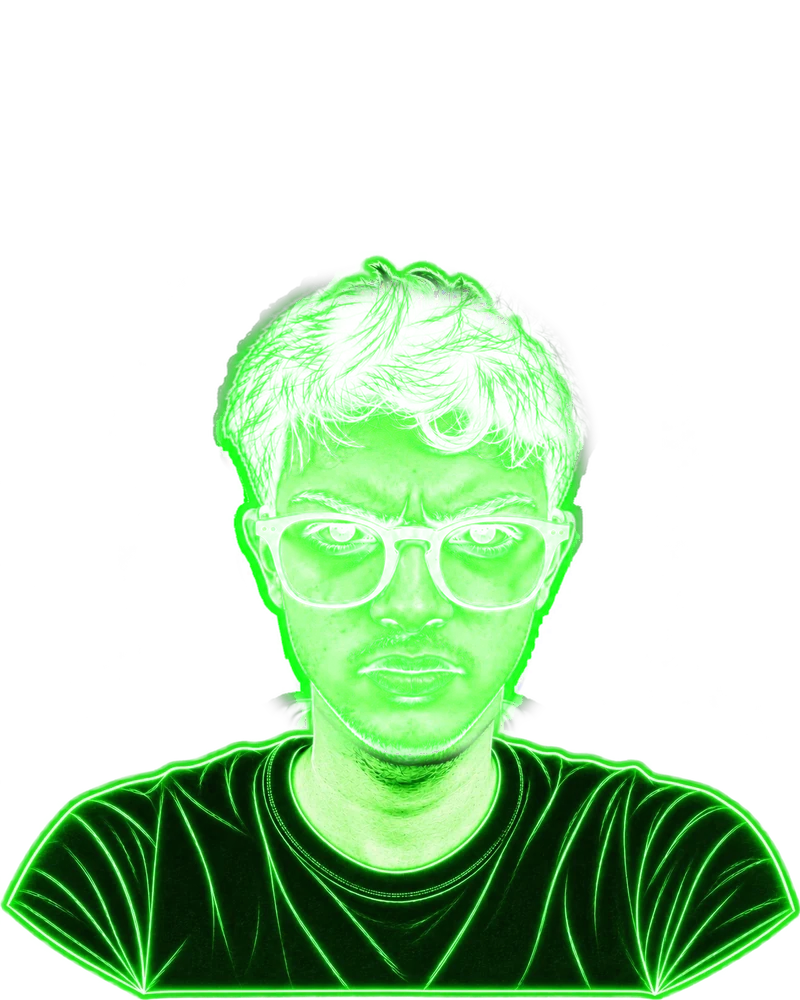
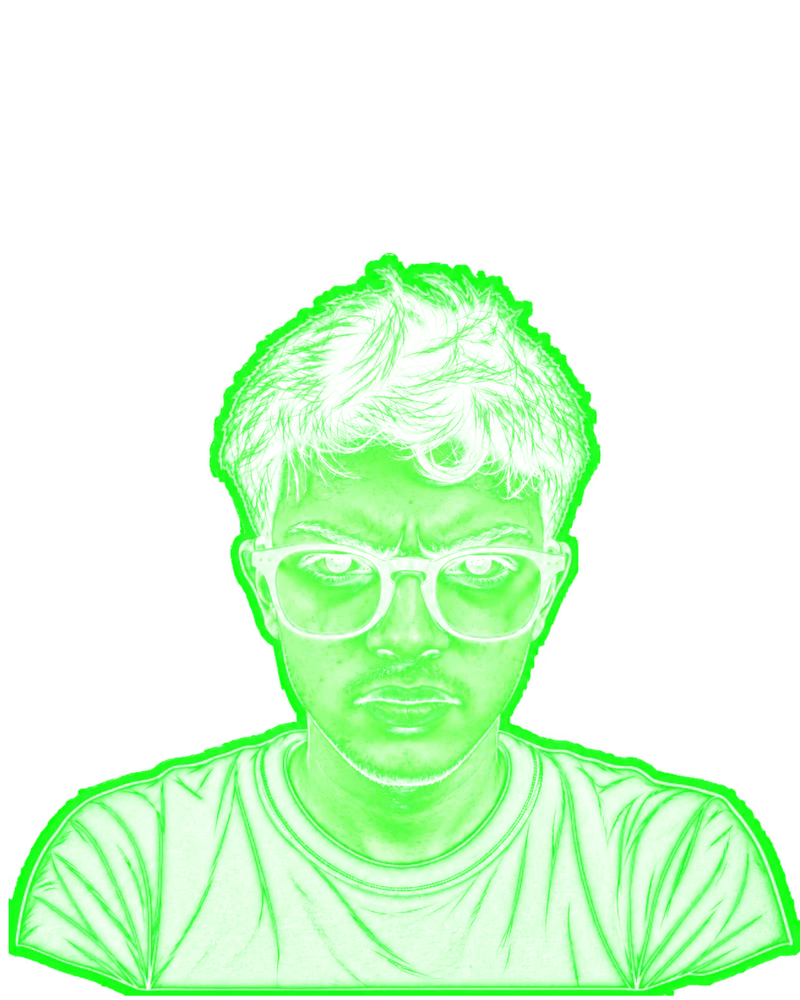
Update: placed real sketches on welcome page

diff --git a/src/styles/main-page.css b/src/styles/main-page.css
@@ -177,7 +177,8 @@ html.lenis-stopped { overflow: hidden; }
   user-select: none;
 }
 #main .sketch-face-angry { opacity: 0; }
-#main .sketch:hover .sketch-svg { filter: brightness(1.25); }
+/* Line sketches glow brighter on hover; the finished portraits stay as they are. */
+#main .sketch:hover .sketch-svg:not(.sketch-portrait) { filter: brightness(1.25); }
 
 #main .sketch-hit {
   position: absolute;
@@ -188,16 +189,35 @@ html.lenis-stopped { overflow: hidden; }
 }
 #main .sketch-hit:focus-visible { outline: 1px solid var(--neon); outline-offset: 0.4rem; }
 
+/* The name: a small neon-edged tag under the portrait, clear of its glowing
+   bottom edge, shown only while the portrait is hovered (or tapped, on a
+   touch screen; or focused from the keyboard). */
 #main .sketch-name {
   position: absolute;
-  left: 50%; bottom: -1.2rem;
+  left: 50%; top: calc(100% + 1.4rem);
   transform: translateX(-50%);
-  font-size: 1.3rem;
-  letter-spacing: 0.24em;
+  padding: 0.6rem 1.6rem 0.6rem 1.9rem;   /* the extra left balances the trailing letter-spacing */
+  border: 1px solid var(--neon);
+  border-radius: 10rem;
+  background: rgba(var(--c-bg-rgb), 0.82);
+  box-shadow: 0 0 1.2rem -0.2rem var(--neon), inset 0 0 0.8rem -0.3rem var(--neon);
+  font-size: 1.5rem;
+  font-weight: 600;
+  line-height: 1;
+  letter-spacing: 0.3em;
   text-transform: uppercase;
-  color: var(--neon);
-  text-shadow: 0 0 6px var(--neon), 0 0 18px var(--neon);
+  white-space: nowrap;
+  color: var(--c-ink);
+  text-shadow: 0 0 0.8rem var(--neon);
   pointer-events: none;
+  opacity: 0;
+  translate: 0 0.8rem;
+  transition: opacity 0.35s var(--ease-out), translate 0.45s var(--ease-out);
+}
+#main .sketch:hover .sketch-name,
+#main .sketch:has(.sketch-hit:focus-visible) .sketch-name { opacity: 1; translate: 0 0; }
+@media (hover: none) {
+  #main .sketch:focus-within .sketch-name { opacity: 1; translate: 0 0; }
 }
 
 #main .sketch-gasp {

diff --git a/src/fx/Duo.js b/src/fx/Duo.js
@@ -115,6 +115,7 @@ export default class Duo {
         body: root.querySelector('.sketch-body'),
         svg: host,
         hitBtn: root.querySelector('.sketch-hit'),
+        calm: root.querySelector('.sketch-face:not(.sketch-face-angry)'),
         angry: root.querySelector('.sketch-face-angry'),
         gasp,
         faces,
@@ -413,14 +414,20 @@ export default class Duo {
   }
 
   /**
-   * A portrait's reaction: the angry picture the moment the rock lands,
-   * held as long as the drawn faces hold their mood, then back to calm.
+   * A portrait's reaction: the angry picture the moment the rock lands, held
+   * as long as the drawn faces hold their mood, then straight back to calm.
+   * Both are sudden cuts, one picture or the other — the portraits are
+   * partly see-through, so the hidden one is hidden outright, never left
+   * showing underneath.
    */
   scowl(m) {
-    gsap.killTweensOf(m.angry);
-    gsap.timeline()
-      .set(m.angry, { opacity: 1 })
-      .to(m.angry, { opacity: 0, duration: 0.45, ease: 'power2.inOut' }, 3.6);
+    m.scowlTl?.kill();
+    const show = (angry) => {
+      m.angry.style.opacity = angry ? '1' : '0';
+      m.calm.style.opacity = angry ? '0' : '1';
+    };
+    show(true);
+    m.scowlTl = gsap.delayedCall(3.6, () => show(false));
   }
 
   /* -------------------------------------------------------------- loop */
@@ -601,6 +608,7 @@ export default class Duo {
     this.rocks.destroy();
     this.members.forEach((m) => {
       m.humCall?.kill();
+      m.scowlTl?.kill();
       gsap.killTweensOf([m.root, m.body, m.svg, m.gasp, ...m.warps]);
       m.neon?.destroy();
     });

diff --git a/src/pages/Main.js b/src/pages/Main.js
@@ -109,7 +109,7 @@ export default class Main extends Page {
     this.entered = false;
 
     /* Hidden until the page enters — they power on in onEnter(). */
-    gsap.set(this.el.querySelectorAll('.sketch-svg, .sketch-name'), { opacity: 0 });
+    gsap.set(this.el.querySelectorAll('.sketch-svg'), { opacity: 0 });
     gsap.set(this.el.querySelectorAll('.duo-action-rock'), { opacity: 0, scale: 0.3 });
     gsap.set(this.el.querySelectorAll('.scroll-cue-track'), { scaleY: 0 });
     gsap.set(this.el.querySelectorAll('.scroll-cue-head, .scroll-cue-label'), { opacity: 0 });
@@ -605,7 +605,6 @@ export default class Main extends Page {
     /* Each sketch powers on like a neon tube: a few failed strikes, then on. */
     this.el.querySelectorAll('.sketch').forEach((s, i) => {
       const svg = s.querySelector('.sketch-svg');
-      const name = s.querySelector('.sketch-name');
       const at = 0.6 + i * 0.35;
       tl.to(svg, {
         keyframes: [
@@ -615,7 +614,6 @@ export default class Main extends Page {
           { opacity: 1, duration: 0.3 }
         ]
       }, at);
-      tl.to(name, { opacity: 1, duration: 0.6, ease: 'power2.out' }, at + 0.5);
     });
 
     /* The rocks drift in out of the dark; their transform is handed back

diff --git a/src/content/site.js b/src/content/site.js
@@ -45,8 +45,7 @@ export const main = {
  *
  *   portrait       the neon portrait, as it normally looks (4:5, transparent)
  *   portraitAngry  the same, angry — shown when a rock hits, instead of the
- *                  expression animation; lined up with `portrait` so only the
- *                  face changes
+ *                  expression animation (same size and body position)
  *
  * Or, for a line sketch tinted and animated by the site (fx/NeonSketch.js):
  *   sketch the drawing; `aspect` its width ÷ height

diff --git a/README.md b/README.md
@@ -115,16 +115,16 @@ the bottom of `src/styles/pages.css`.
 
 Meet and Prem are finished neon portraits (`public/media/team/meet.webp`,
 `prem.webp`), each with an angry twin (`meet-angry.webp`, `prem-angry.webp`).
-When a rock hits someone, their picture switches to the angry one on impact,
-holds for a few seconds and fades back — the knock-back, the neon stutter,
-the lightning and the dizzy stars play as before. The angry picture is lined
-up with the calm one (same body, the face aligned on the glasses), so only
-the expression changes. Both are 4:5 and transparent (brightness is alpha:
-neon on black, minus the black).
+When a rock hits someone, their picture cuts to the angry one on impact,
+holds for a few seconds, then cuts straight back — one picture or the other,
+never both (the portraits are partly see-through, so the hidden one is
+hidden outright). The knock-back, the neon stutter, the lightning and the dizzy stars play as
+before. Both pictures are 4:5 and transparent (brightness is alpha: neon on
+black, minus the black).
 
 To swap a portrait, drop the files in and update the entry in `team`:
 
-- `portrait`, `portraitAngry` — the two pictures (4:5, lined up)
+- `portrait`, `portraitAngry` — the two pictures (4:5, same body position)
 - `hit` (where a rock strikes and the neon shorts out), `crown` (top of the
   head, where the dizzy stars circle) and `hand` (where a thrown rock leaves
   from), as fractions of the picture (0..1 from the top-left)
